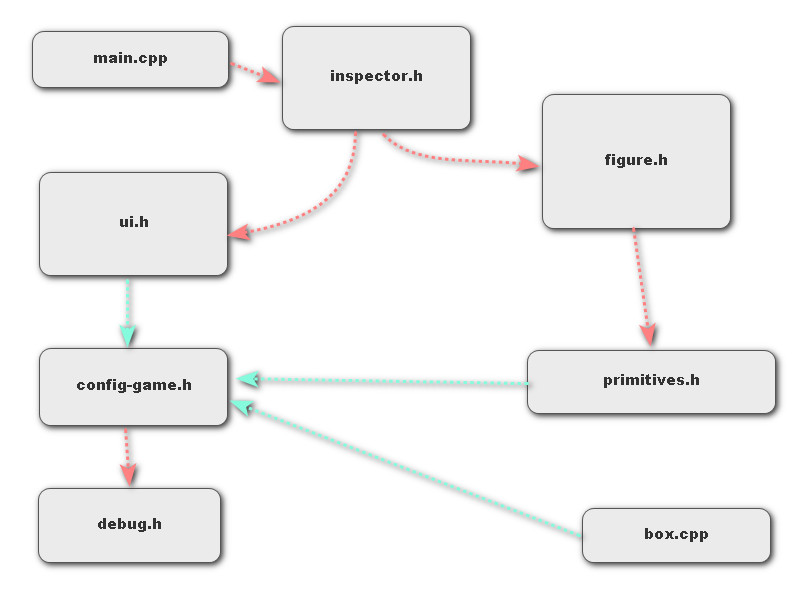
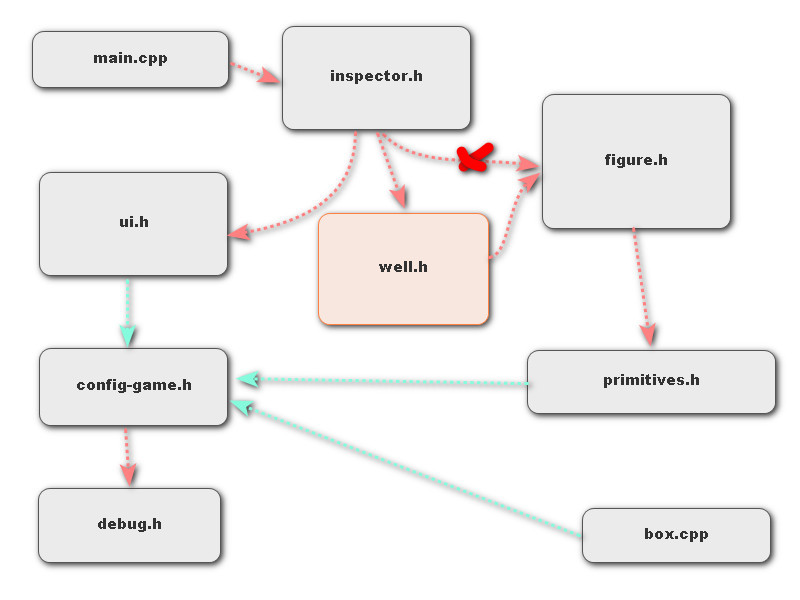
+

Changed region(s): [[0.375, 0.21, 0.6875, 0.57], [0.5625, 0.24, 0.625, 0.3]]

diff --git a/IDE-VS-2022/Test-Columns/sources/well.h b/IDE-VS-2022/Test-Columns/sources/well.h
@@ -1,0 +1,19 @@
+///----------------------------------------------------------------------------|
+/// "well.h"
+///----------------------------------------------------------------------------:
+#ifndef WELL_H
+#define WELL_H
+#include "config-game.h"
+
+
+struct  Well
+{       Well()
+        {   
+        }
+        
+    
+};
+
+
+#endif // WELL_H
+
